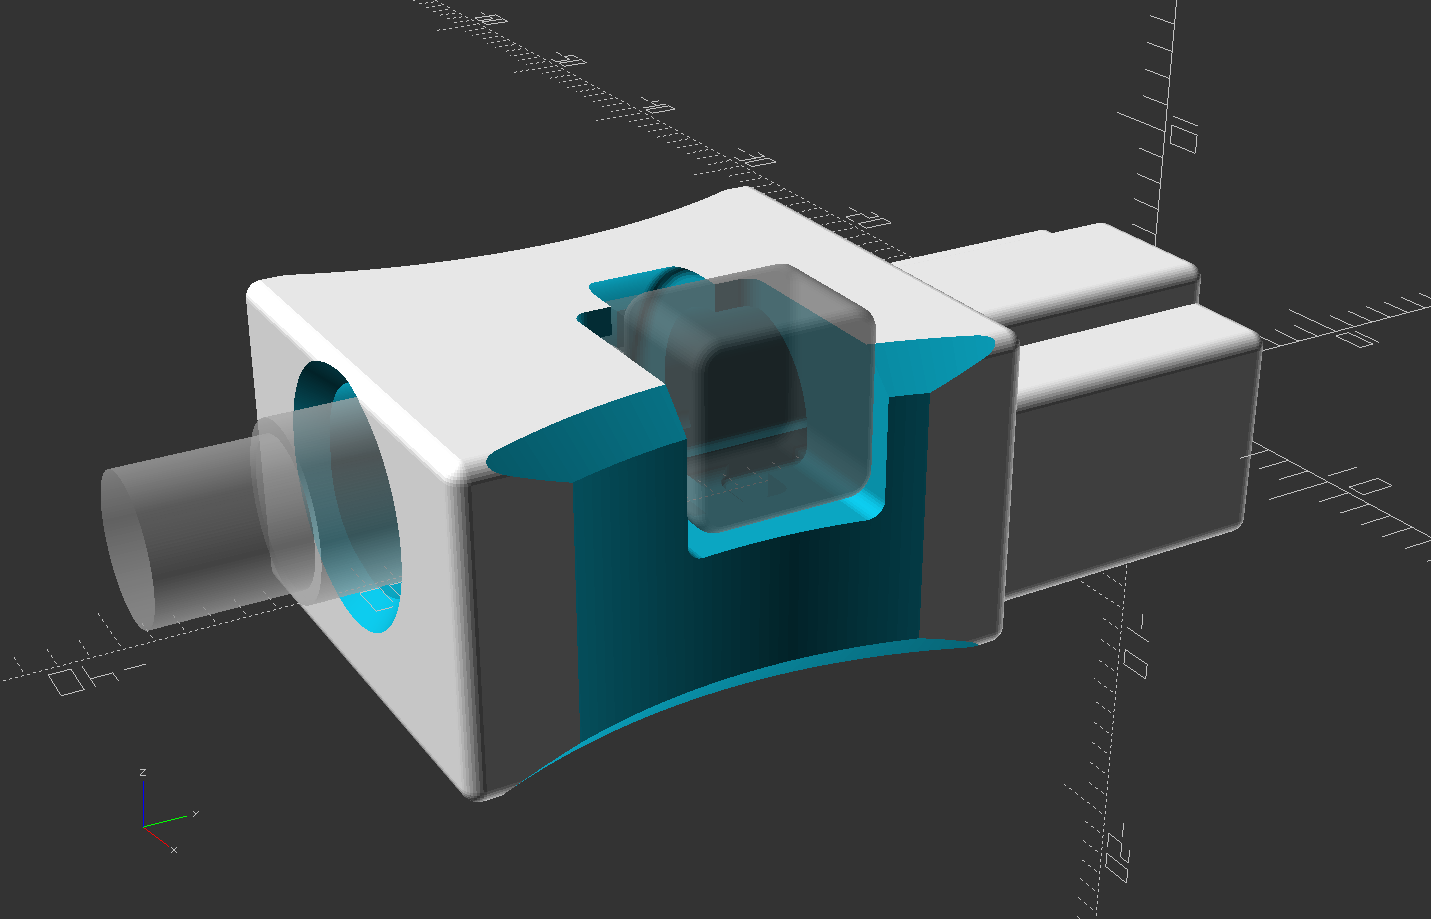
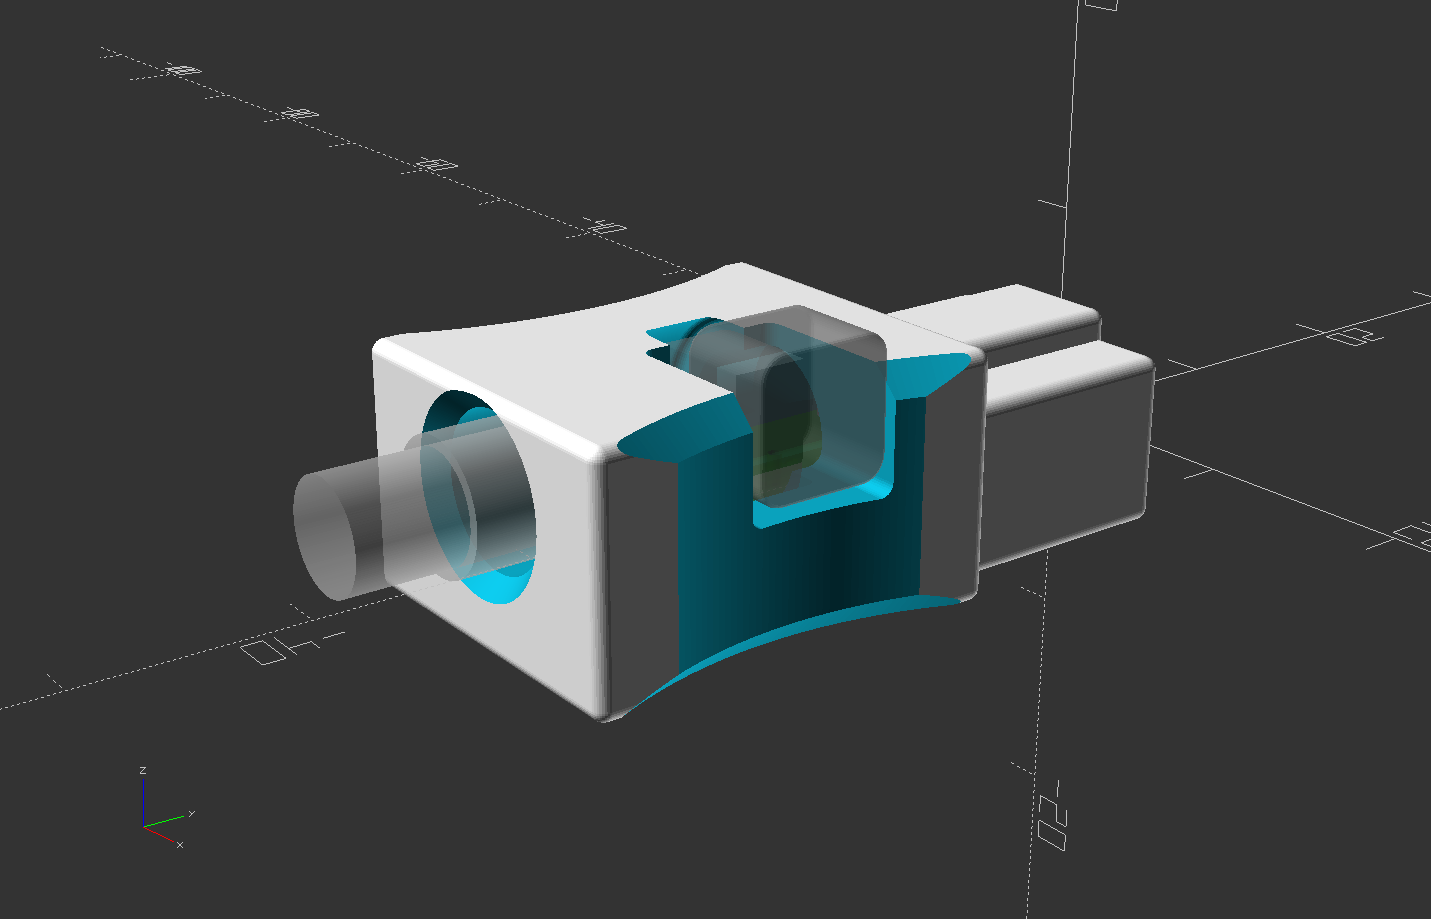
pics

diff --git a/HOUSING/README.md b/HOUSING/README.md
@@ -4,14 +4,14 @@ IE: stl/TPDD_Cable_Housing.3B.stl is housing type B for pcb type 3.
 
 | | PCB Shape | Soldering Jig |
 | --- | --- | --- |
-| PCB 1 | ![](out/TPDD_Cable_Housing.1A.3.png) | ![](out/TPDD_Cable_Housing.1JIG.png) |
-| PCB 2 | ![](out/TPDD_Cable_Housing.2A.3.png) | ![](out/TPDD_Cable_Housing.2JIG.png) |
-| PCB 3 | ![](out/TPDD_Cable_Housing.3A.3.png) | ![](out/TPDD_Cable_Housing.3JIG.png) |
+| PCB 1 | ![](out/TPDD_Cable_Housing.1A.Z.png) | ![](out/TPDD_Cable_Housing.1JIG.png) |
+| PCB 2 | ![](out/TPDD_Cable_Housing.2A.Z.png) | ![](out/TPDD_Cable_Housing.2JIG.png) |
+| PCB 3 | ![](out/TPDD_Cable_Housing.3A.Z.png) | ![](out/TPDD_Cable_Housing.3JIG.png) |
 
 
 | | | | |
 | --- | --- | --- | --- |
-| Type A | ![](out/TPDD_Cable_Housing.3A.1.png) | ![](out/TPDD_Cable_Housing.3A.2.png) | ![](out/TPDD_Cable_Housing.3A.4.png) |
-| Type B | ![](out/TPDD_Cable_Housing.3B.1.png) | ![](out/TPDD_Cable_Housing.3B.2.png) | ![](out/TPDD_Cable_Housing.3B.4.png) |
-| Type C | ![](out/TPDD_Cable_Housing.3C.1.png) | ![](out/TPDD_Cable_Housing.3C.2.png) | ![](out/TPDD_Cable_Housing.3C.4.png) |
-| Type D | ![](out/TPDD_Cable_Housing.3D.1.png) | ![](out/TPDD_Cable_Housing.3D.2.png) | ![](out/TPDD_Cable_Housing.3D.4.png) |
+| Type A | ![](out/TPDD_Cable_Housing.3A.1.png) | ![](out/TPDD_Cable_Housing.3A.2.png) | ![](out/TPDD_Cable_Housing.3A.X.png) |
+| Type B | ![](out/TPDD_Cable_Housing.3B.1.png) | ![](out/TPDD_Cable_Housing.3B.2.png) | ![](out/TPDD_Cable_Housing.3B.X.png) |
+| Type C | ![](out/TPDD_Cable_Housing.3C.1.png) | ![](out/TPDD_Cable_Housing.3C.2.png) | ![](out/TPDD_Cable_Housing.3C.X.png) |
+| Type D | ![](out/TPDD_Cable_Housing.3D.1.png) | ![](out/TPDD_Cable_Housing.3D.2.png) | ![](out/TPDD_Cable_Housing.3D.X.png) |
